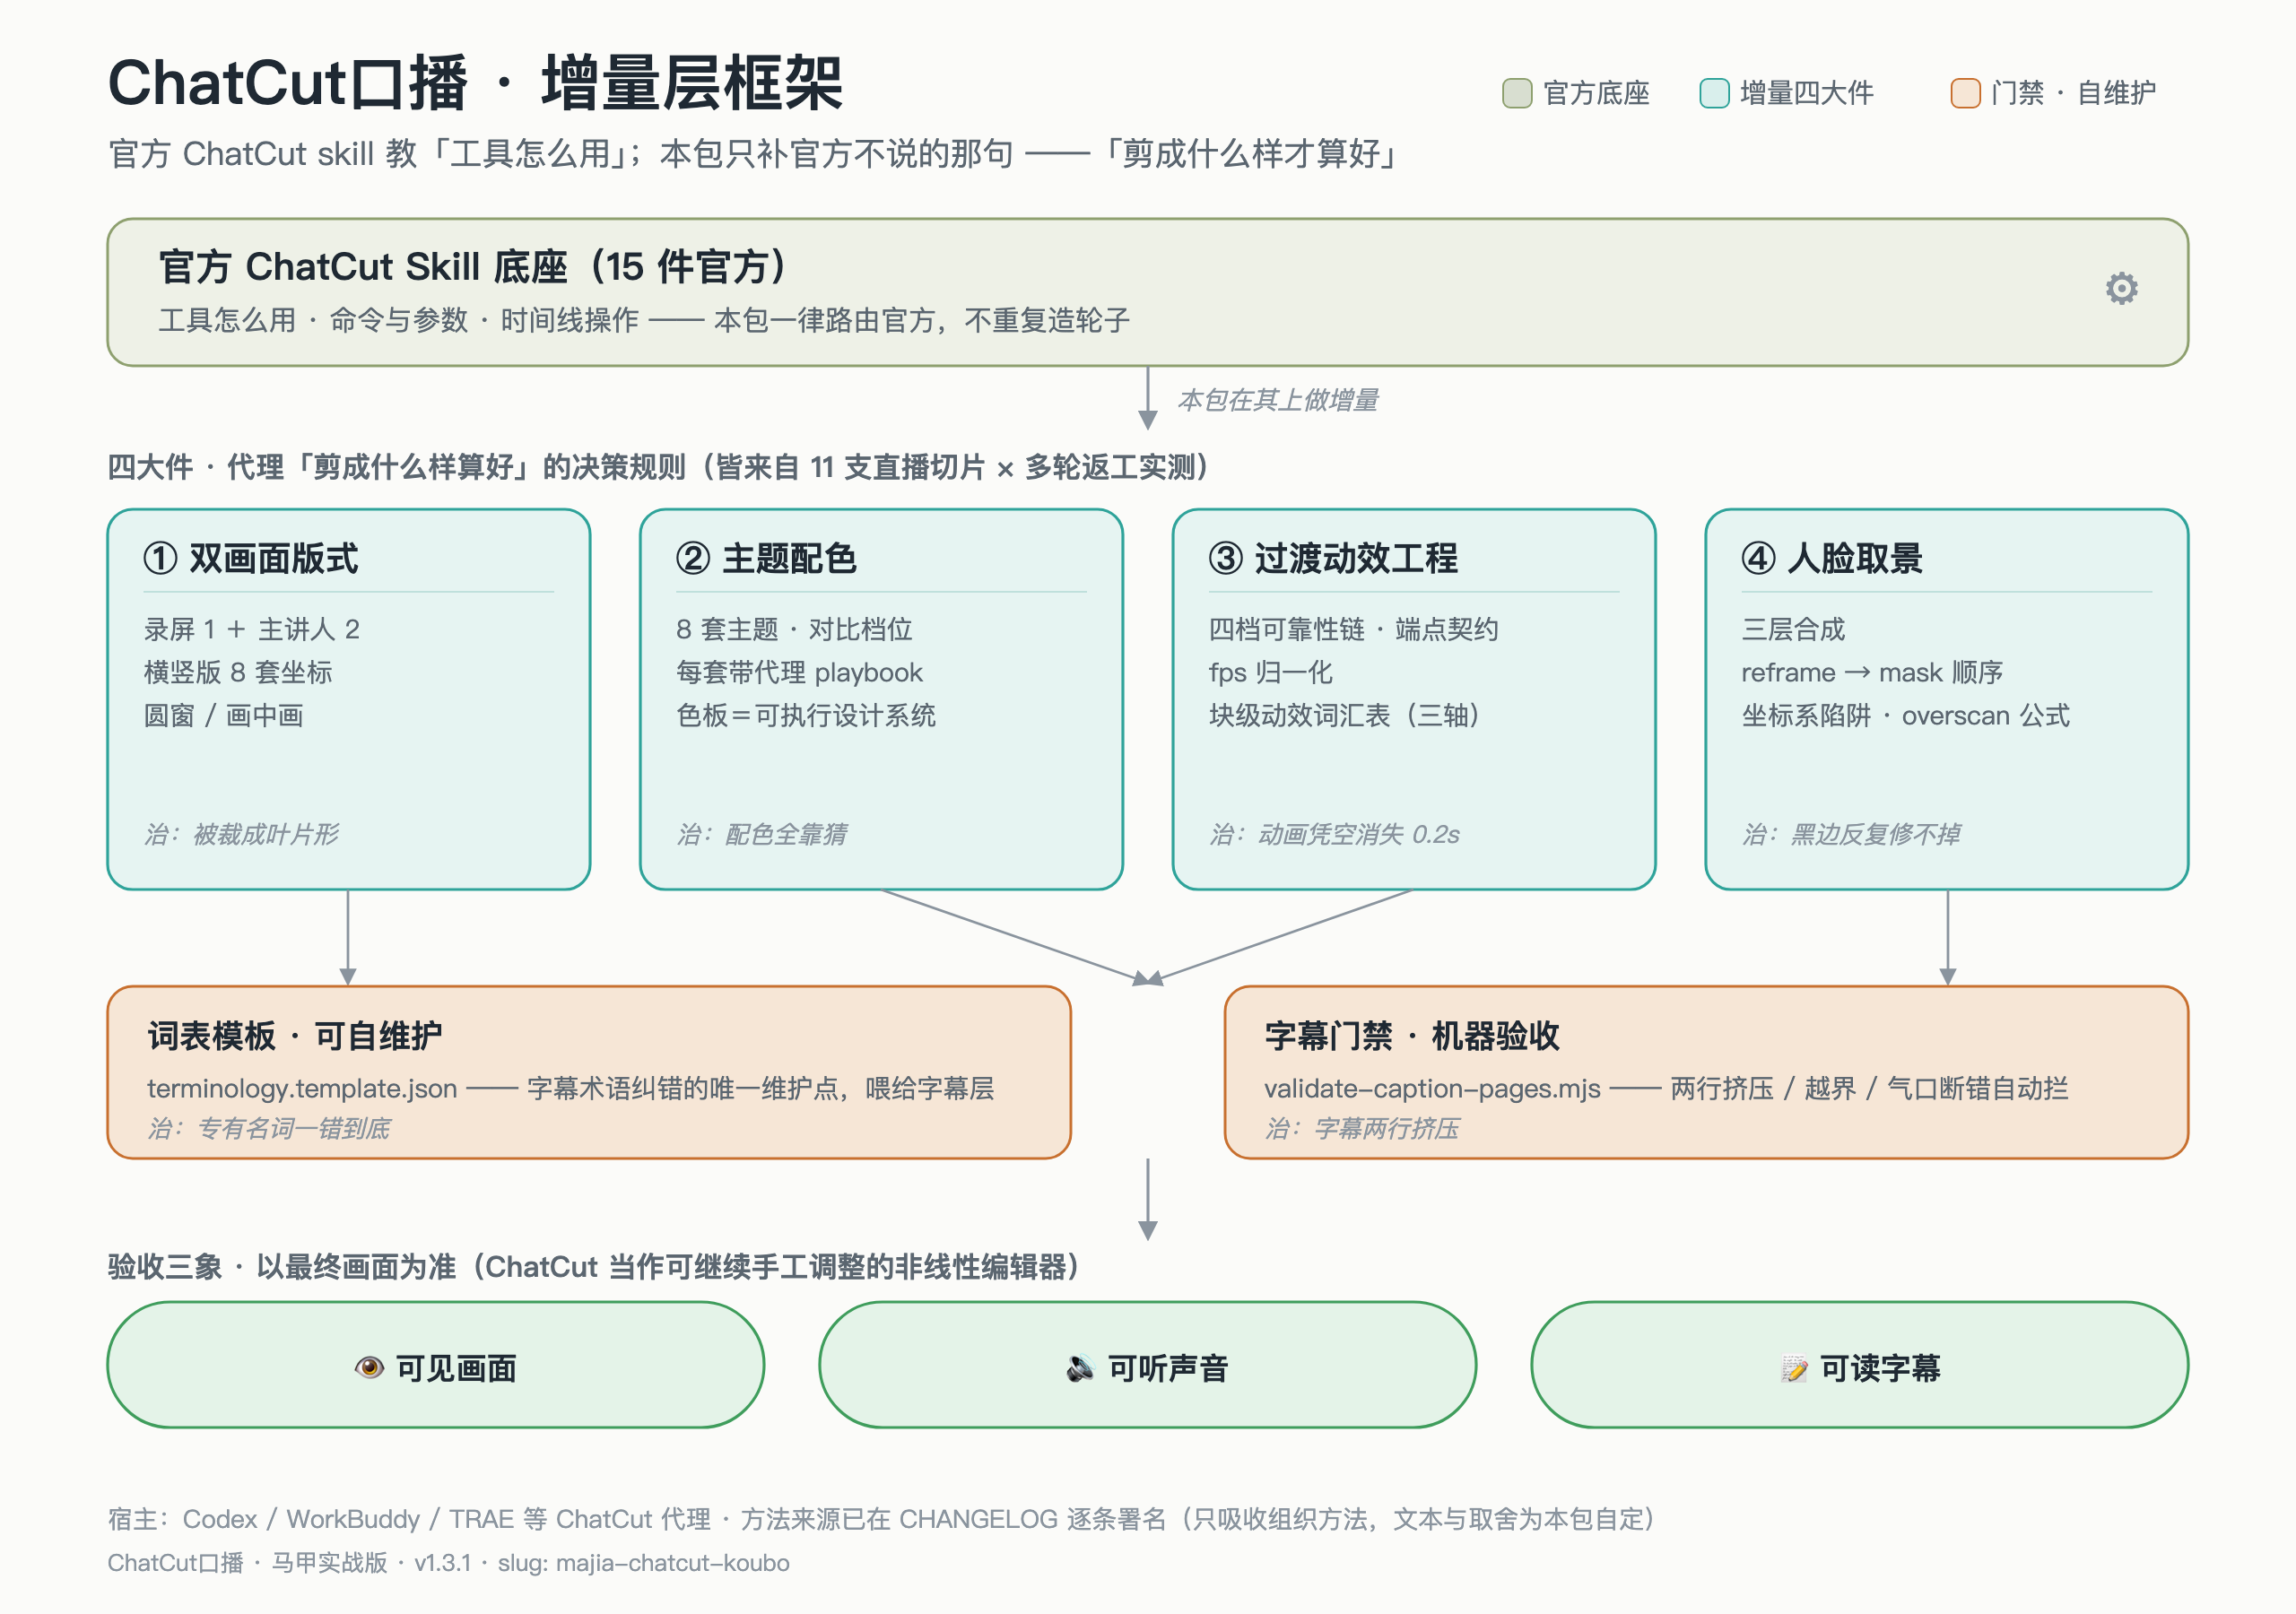
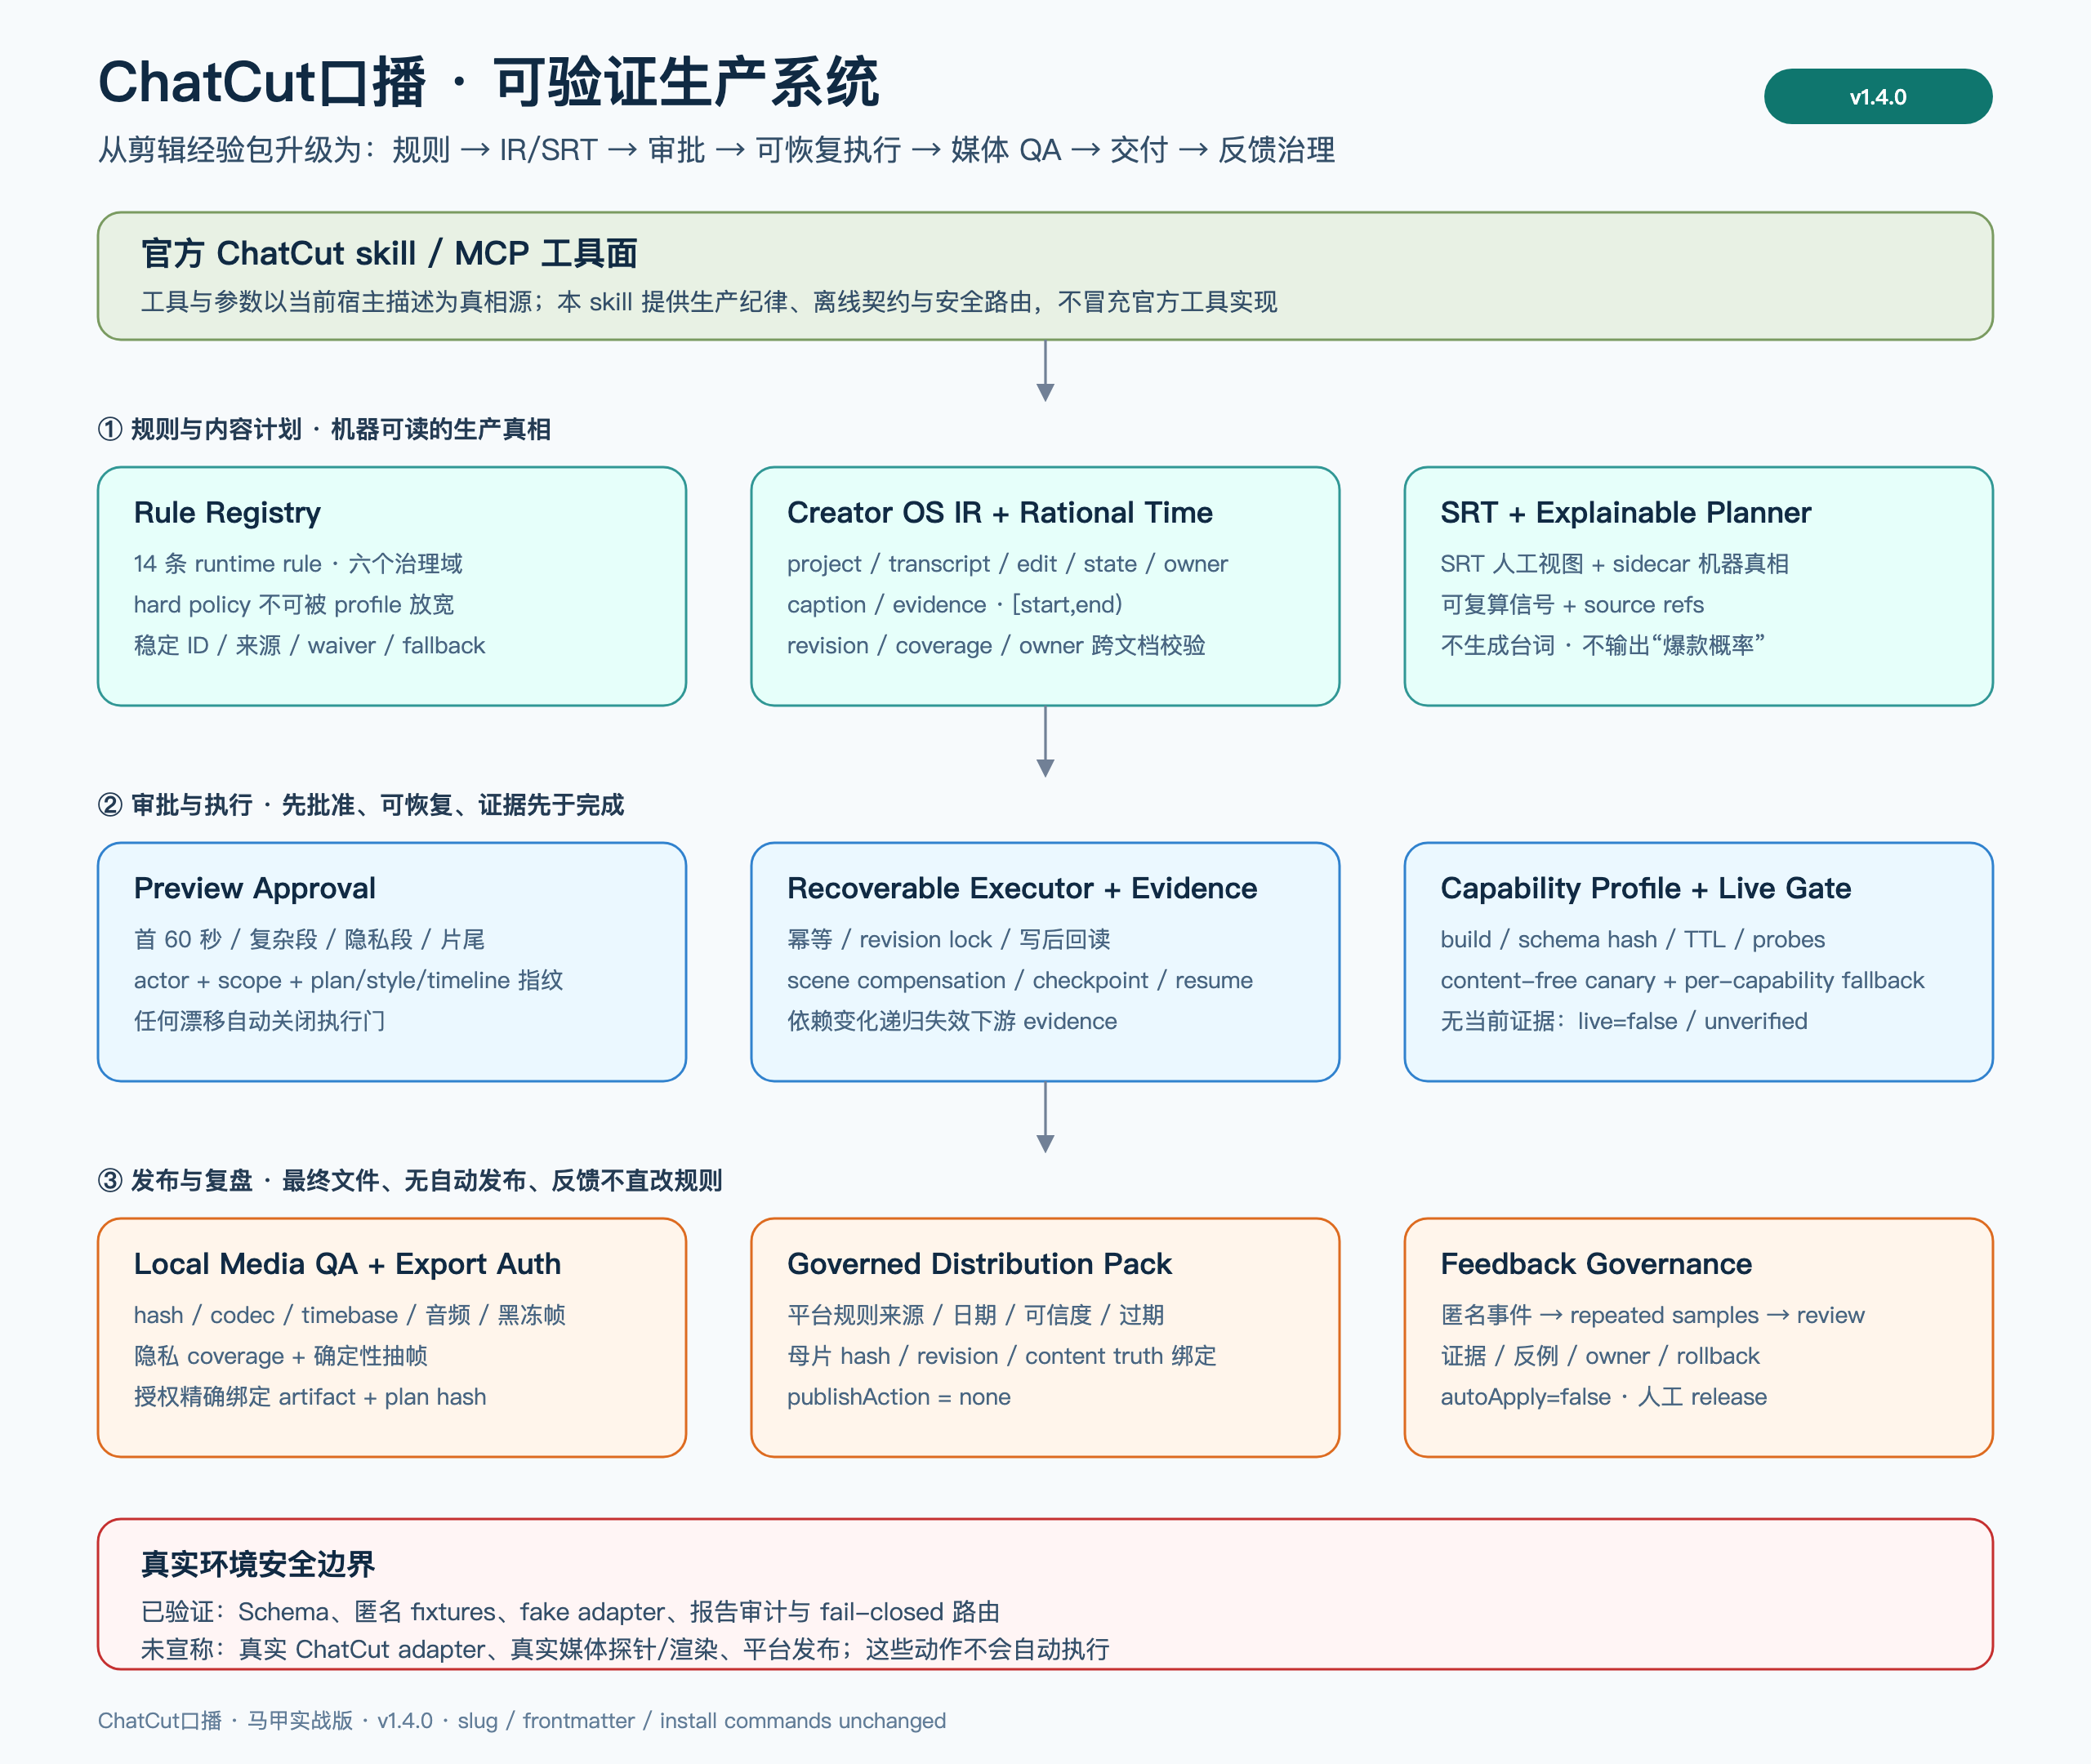
release: prepare v1.4.0 production system

diff --git a/README.md b/README.md
@@ -1,21 +1,21 @@
 # ChatCut口播 · 马甲实战版
 
-![Skill Version](https://img.shields.io/badge/skill-v1.3.1-blue)
+![Skill Version](https://img.shields.io/badge/skill-v1.4.0-blue)
 [![skills.sh](https://skills.sh/b/maojiebc/majia-chatcut-koubo)](https://skills.sh/maojiebc/majia-chatcut-koubo)
 
-> 安装标识（slug）仍为 `majia-chatcut-koubo`，安装命令与下方一致；「ChatCut口播 · 马甲实战版」是它的中文展示名。
+> **ChatCut口播 · 马甲实战版** — 安装标识（slug）仍为 `majia-chatcut-koubo`，安装命令保持不变。
 
-**ChatCut 口播剪辑通用技巧包 · 马甲实战版** —— 官方 ChatCut skill 之上的增量层:双画面版式、主题配色、过渡动效、人脸取景四大件,外加可自维护的词表模板与机器化字幕门禁。全部规则来自真实批量剪片(11 支直播切片 × 多轮返工)踩出来的实测结论,不是理论汇编。
+**从剪辑经验包升级为可验证生产系统** —— 在官方 ChatCut skill 之上，把版式/配色/动效/人脸取景与规则、IR/SRT、审批、可恢复执行、证据、媒体 QA、交付和反馈治理串成一条 fail-closed 生产链。
 
-<img src="https://raw.githubusercontent.com/maojiebc/majia-chatcut-koubo/main/docs/architecture.png" alt="v1.3.1 增量层框架图:官方 ChatCut 底座 → 双画面版式(七执行状态) / 主题配色 / 过渡动效工程(窗口 reframe shader) / 人脸取景 四大件 + ChatCut 宿主实测档案 + 八道硬闸 + 本地个人层 → 词表模板 + 字幕门禁 → 可见画面 / 可听声音 / 可读字幕 验收三象" width="100%">
+<img src="https://raw.githubusercontent.com/maojiebc/majia-chatcut-koubo/main/docs/architecture.png" alt="v1.4.0 可验证生产系统：Rule Registry → Creator OS IR/SRT → Explainable Planner → Preview Approval → Recoverable Executor/Evidence → Media QA → Distribution Pack → Feedback Governance，并由 Capability Profile 阻断无证据 live route" width="100%">
 
-<img src="https://raw.githubusercontent.com/maojiebc/majia-chatcut-koubo/main/docs/theme-preview.png" alt="v1.3.1 · 8 套口播主题配色总览(每套含代理 playbook):深空蓝/墨绿金/暖灰橙/午夜紫/极简黑白/海盐青/大地棕/活力青柠" width="100%">
+<img src="https://raw.githubusercontent.com/maojiebc/majia-chatcut-koubo/main/docs/theme-preview.png" alt="v1.4.0 · 8 套口播主题配色总览(每套含代理 playbook):深空蓝/墨绿金/暖灰橙/午夜紫/极简黑白/海盐青/大地棕/活力青柠" width="100%">
 
 ## 这个包解决什么
 
 用 AI 代理(Codex / WorkBuddy / TRAE 等 ChatCut 宿主)剪口播视频时,官方 skill 教了「工具怎么用」,但没人告诉代理「剪成什么样算好」。结果是:画中画被裁成叶片形、过渡生硬得像 PPT、字幕两行挤压、导出后动画凭空消失 0.2 秒、黑边反复修不掉。
 
-本包把这些坑的**根因和数学**写成代理可执行的规范:
+本包把这些坑的**根因和数学**写成代理可执行的规范，并把“做完”升级为可追溯的生产状态：
 
 - **双画面版式系统** — 横竖版 8 套具名版式带精确坐标(`assets/compositions.json`),七执行状态语义决策器 + 状态落地原子契约:什么时候人物全屏、什么时候圆窗、什么时候纯录屏,由证据决定不由时间轮播
 - **主题配色系统** — 8 套实测主题(token + SVG 底图 + 可运行 HTML 组件),**每套自带代理 playbook**:token 语义档位、信息块偏好、字幕底板硬规则、可直接嵌进生成指令的调用 crib
@@ -36,6 +36,8 @@
 - **ChatCut 宿主实测行为档案** — crop 语义、编辑器/云端渲染差异、MG 媒体槽失效与窗口 reframe shader 正解、字幕分页引擎机器路径、隐私扫描 SOP、双端预览路由
 - **留存结构 + 四平台路由** — 开头钩子决策流、钩子-兑现成对、注意力时钟、抖音/小红书/视频号/B站条件路由
 - **本地个人层** — `~/.config/majia-chatcut-koubo/` 叠加个人 profile/词表/审美基线;品牌词与实测数字留在本地,公开包保持通用
+
+> **真实环境边界**：当前仓库验证的是离线 Schema、匿名 fixtures、fake adapter、报告审计与 fail-closed 路由。真实 ChatCut adapter、真实媒体探针/渲染与平台发布尚未验证，也不会被自动执行。
 
 ## 安装
 
@@ -145,6 +147,9 @@ fixtures/preview/               匿名 preview bundle + approval log
 fixtures/execution/             匿名 execution plan
 fixtures/media-qa/              匿名 final artifact release report
 fixtures/distribution/          匿名平台 profile + deliverables pack
+fixtures/feedback/              匿名 privacy-safe event + suggested update queue
+fixtures/planning/              匿名 explainable content scorecard
+fixtures/capabilities/          明确 live=false/unverified 的 capability profile
 src/config/                     profile resolver、合并来源与安全序列化
 src/cli/resolve-profile.mjs     source → resolved CLI
 src/rules/                      Rule Registry 审计与 tighten-only override evaluator
@@ -152,6 +157,7 @@ src/time/                       有理时间、显式时间域与半开区间运
 src/planning/                   Creator OS bundle 跨文档 validator
                                  SRT export/parser/matcher/diff classifier
 src/execution/                  fake adapter、journal、reconcile、resume、evidence
+src/governance/                 feedback event 与建议发布治理
 src/qa/                         媒体 probe/audio/privacy/inspection/release audit
 src/distribution/               平台 profile freshness 与 master binding audit
 scripts/
@@ -161,8 +167,10 @@ scripts/
   srt-bridge.mjs                SRT/sidecar export 与候选 diff CLI
   validate-preview-approval.mjs 预览批准 scope/指纹/失效 gate
   validate-recovery-fixtures.mjs 可恢复执行故障注入 gate
+  validate-capability-profile.mjs build/schema/TTL/probe/canary live-route gate
   validate-media-release.mjs    最终媒体报告与导出授权 gate
   validate-distribution-pack.mjs 平台交付 manifest gate
+  validate-feedback-governance.mjs 匿名事件与人工 release queue gate
   validate-caption-pages.mjs    字幕页机械校验(profile 继承/结构化 JSON/--root/--strict/--terms)
   check-assets.mjs              composition/theme 引用与几何 gate
   check-version-drift.mjs       package/SKILL/README/CHANGELOG 漂移 gate
@@ -178,15 +186,13 @@ docs/
 
 ## 📋 版本记录
 
+**V1.4.0（2026-07-24）** — 从技巧包升级为可验证生产系统：Rule Registry、Creator OS IR/Rational Time、SRT/可解释规划、预览审批、可恢复执行与证据链、Media QA/导出授权、受治理交付包、反馈治理和 capability live gate 全部进入离线 release gates；真实 ChatCut adapter、真实媒体探针/渲染与平台发布继续保持 `unverified` 且不自动执行。
+
 **V1.3.1(2026-07-24)** — 契约止血与发布地基：Node/lockfile/CI 可复现安装；Ajv 离线验证全仓 JSON；source/resolved profile 契约、继承路径修复、合并来源追踪与安全 CLI；字幕数值语义、词 key/区间、短卡类型、override 上限、严格 warning 与项目/时间线 provenance 绑定；主题对比度、composition 几何、资产引用和文档/版本漂移全部进入 release gate。旧字幕 JSON 仍可非严格迁移，发布态须补齐 provenance。
 
 **V1.3.0(2026-07-24)** — 制度增量+ChatCut 实测档案+本地个人层:references 6→10 册(新增逐片执行手册/宿主实测行为档案/留存结构/故障恢复);SKILL 新增确认闸门(状态表先行硬闸/60 秒预览闸/精校稿真相源);机器门禁升级(不可放宽 `rules/policy.json`+schemas+validator 支持 profile 继承/毫秒短卡/`--terms` 个人词表+14 项回归测试);主题 token v1.1 对比度修正(海盐青正文 7.67:1 达标);本地个人层正式契约 `~/.config/majia-chatcut-koubo/` + `templates/local-config-example/` 四件套模板。
 
-**V1.2.3(2026-07-23)** — 依赖 CVE 修复:`assets/theme-kit/requirements.txt` 的 `CairoSVG>=2.7` 固定为 `==2.9.0`,消除 CVE-2026-31899(递归 `<use>` 指数级 DoS)暴露;SKILL description 补前置/非目标,收窄触发口径。
-
-**V1.2.2(2026-07-23)** — 中文品牌名:展示名定为「ChatCut口播 · 马甲实战版」,同步 SKILL/README/架构图/GitHub About/ClawHub;安装标识 `majia-chatcut-koubo`、frontmatter 与安装命令一律不变。
-
-完整变更历史见 [CHANGELOG.md](CHANGELOG.md)。
+完整变更历史见 [CHANGELOG.md](./CHANGELOG.md) 或 [GitHub Releases](https://github.com/maojiebc/majia-chatcut-koubo/releases)。
 
 ## 方法来源
 
@@ -194,9 +200,9 @@ docs/
 
 ## 👤 作者 / 联系
 
-**马甲(@maojiebc)** · 超级马甲
+**马甲（@maojiebc）** · 超级马甲
 
-如果这份 skill 帮到你,欢迎在以下任意渠道找我交流踩坑实录、提需求、报 bug,也欢迎勾兑用户运营 / 数据中台 / BI 工程的实战经验:
+如果这份 skill 帮到你，欢迎在以下任意渠道找我交流踩坑实录、提需求、报 bug，也欢迎勾兑用户运营 / 数据中台 / BI 工程的实战经验：
 
 | 渠道 | 链接 |
 |---|---|
@@ -207,4 +213,4 @@ docs/
 | 📕 小红书 | [超级马甲](https://xhslink.com/m/4fQMJeHHWKC) |
 | 📰 微信公众号 | [超级马甲](https://mp.weixin.qq.com/mp/profile_ext?action=home&__biz=MzY5NzIzODk2NA==#wechat_redirect) |
 
-> 这份 skill 是 14 年用户运营 + 内容矩阵实战沉淀出来的,问题/合作随时聊。
+> 这份 skill 是 14 年用户运营 + 内容矩阵实战沉淀出来的，问题/合作随时聊。

diff --git a/README.en.md b/README.en.md
@@ -1,14 +1,14 @@
 # majia-chatcut-koubo
 
-![Skill Version](https://img.shields.io/badge/skill-v1.3.1-blue)
+![Skill Version](https://img.shields.io/badge/skill-v1.4.0-blue)
 
-> Chinese display name: **ChatCut口播 · 马甲实战版**. Install slug stays `majia-chatcut-koubo`.
+> **ChatCut口播 · 马甲实战版** — the install slug stays `majia-chatcut-koubo`.
 
-**A field-tested technique pack for agent-driven talking-head editing in ChatCut · Majia Field Edition** — an increment layer on top of the official ChatCut skills. The official skills teach agents *how to use the tools*; this pack teaches them *what a good cut looks like*, with the math behind every hard-won lesson.
+**A verifiable production system for agent-driven talking-head editing** — an increment layer above the official ChatCut skills, joining visual craft with governed rules, IR/SRT planning, approval, recoverable execution, evidence, media QA, delivery, and feedback.
 
-<img src="https://raw.githubusercontent.com/maojiebc/majia-chatcut-koubo/main/docs/architecture.png" alt="v1.3.1 increment-layer architecture: official ChatCut base → four pieces (dual-frame layout / theme palette / transition engineering / face reframe) → terminology template + caption gate → visible frame / audible sound / readable captions acceptance triad" width="100%">
+<img src="https://raw.githubusercontent.com/maojiebc/majia-chatcut-koubo/main/docs/architecture.png" alt="v1.4.0 verifiable production system: Rule Registry → Creator OS IR/SRT → Explainable Planner → Preview Approval → Recoverable Executor/Evidence → Media QA → Distribution Pack → Feedback Governance, with Capability Profile blocking unproven live routes" width="100%">
 
-<img src="https://raw.githubusercontent.com/maojiebc/majia-chatcut-koubo/main/docs/theme-preview.png" alt="v1.3.1 · 8 talking-head color themes overview (each with an agent playbook)" width="100%">
+<img src="https://raw.githubusercontent.com/maojiebc/majia-chatcut-koubo/main/docs/theme-preview.png" alt="v1.4.0 · 8 talking-head color themes overview (each with an agent playbook)" width="100%">
 
 ## What's inside
 
@@ -27,6 +27,8 @@
 - **Local Media QA and export authorization** — audits final-file hashes, codecs/timebase/dimensions/color/audio/duration, loudness/true peak/silence, black/freeze findings, privacy coverage, and deterministic inspection samples from supplied reports; it never exports or publishes media.
 - **Distribution pack foundation** — platform rules carry source, observation, expiry, and confidence metadata; stale hard rules degrade to advisory, deliverables bind to master/revision/content-truth hashes, and publishing is forbidden.
 - **Feedback governance foundation** — events retain only anonymous hashes, stable failure signatures, and allowlisted metrics; update suggestions require repeated samples, evidence, counterexamples, an owner, human review, and rollback, with no online auto-apply route.
+
+> **Live-environment boundary:** the repository validates offline schemas, anonymous fixtures, a fake adapter, report audits, and fail-closed routing. A real ChatCut adapter, real media probing/rendering, and platform publishing remain unverified and are never run automatically.
 
 ## Install
 
@@ -80,19 +82,19 @@ The numbers in this pack (22 chars/line, 330px circle window, `magnification≈0
 
 ## 📋 Version History
 
+**V1.4.0 (2026-07-24)** — Upgraded from a technique pack to a verifiable production system: Rule Registry, Creator OS IR/Rational Time, SRT and explainable planning, preview approval, recoverable execution/evidence, Media QA/export authorization, governed distribution packs, feedback governance, and a capability live-route gate are now part of the offline release gates. Real ChatCut adaptation, media probing/rendering, and platform publishing remain explicitly unverified and non-automatic.
+
 **V1.3.1 (2026-07-24)** — Contract hotfix and reproducible release foundation: pinned Node and lockfile CI; offline repository-wide JSON validation; separate source/resolved profile contracts with safe inheritance, merge provenance and CLI output; caption numeric semantics, word identity/intervals, narrow short-card exception, hard override cap, strict warnings and project/timeline provenance binding; release gates for contrast, asset references/geometry and documentation/version drift. Legacy caption JSON remains available for non-strict migration, while release mode requires provenance.
 
 **V1.3.0 (2026-07-24)** — Process increments + ChatCut field notes + local personal layer: references 6→10 (new per-slice operating manual / host field-notes archive / retention structure / recovery); SKILL gains confirmation gates (state-table-first hard gate / 60-second preview gate / verbatim-transcript-as-truth); machine gate upgrade (non-weakenable `rules/policy.json` + schemas + validator with profile inheritance, millisecond short-card rules and a `--terms` personal-terminology flag + 14 regression tests); theme token v1.1 contrast fixes (sea-salt body text now 7.67:1); formal local personal layer contract at `~/.config/majia-chatcut-koubo/` with `templates/local-config-example/`.
 
-**V1.2.3 (2026-07-23)** — Dependency CVE fix: `assets/theme-kit/requirements.txt` pins `CairoSVG>=2.7` to `==2.9.0`, removing exposure to CVE-2026-31899 (exponential DoS via recursive SVG `<use>`); SKILL description gains preconditions / non-goals to tighten activation scope.
-
-**V1.2.2 (2026-07-23)** — Chinese brand name: display name set to **ChatCut口播 · 马甲实战版** across SKILL / README / architecture diagram / GitHub About / ClawHub. The install slug `majia-chatcut-koubo`, frontmatter, and install commands are unchanged.
-
-Full history: [CHANGELOG.md](CHANGELOG.md).
+Full history: [CHANGELOG.md](./CHANGELOG.md) or [GitHub Releases](https://github.com/maojiebc/majia-chatcut-koubo/releases).
 
 ## 👤 Author / Contact
 
-**Majia (@maojiebc)** · 超级马甲
+**Majia (@maojiebc)** · 超级马甲 (Super Majia)
+
+If this skill helps you, find me on any of these channels — happy to chat about field experience, take feature requests, hear bug reports, or trade notes on user operations / data platforms / BI engineering work:
 
 | Channel | Link |
 |---|---|
@@ -100,7 +102,7 @@ Full history: [CHANGELOG.md](CHANGELOG.md).
 | 🐙 GitHub | [github.com/maojiebc](https://github.com/maojiebc) |
 | 🪝 ClawHub | [clawhub.ai/p/maojiebc](https://clawhub.ai/p/maojiebc) |
 | 🐦 X | [@maojiebc](https://x.com/maojiebc) |
-| 📕 Xiaohongshu | [超级马甲](https://xhslink.com/m/4fQMJeHHWKC) |
-| 📰 WeChat | **超级马甲** |
+| 📕 Xiaohongshu | [Super Majia](https://xhslink.com/m/4fQMJeHHWKC) |
+| 📰 WeChat Official Account | [超级马甲](https://mp.weixin.qq.com/mp/profile_ext?action=home&__biz=MzY5NzIzODk2NA==#wechat_redirect) |
 
-> Distilled from 14 years of user-operations practice. Issues and collaboration welcome.
+> Built from 14 years of user-operations work and multi-channel content matrix experience.

diff --git a/SKILL.md b/SKILL.md
@@ -1,19 +1,28 @@
 ---
 name: majia-chatcut-koubo
-description: ChatCut 口播/录屏视频代理剪辑的通用技巧包——官方 ChatCut skill 之上的增量层。覆盖：双画面版式（横竖版 8 套坐标/七执行状态）、8 套主题配色与对比度档位、过渡动效工程（四档可靠性链/端点契约/fps 归一化）、人脸居中与内部取景（三层合成/reframe→mask 顺序/坐标系陷阱/overscan 公式）、中文气口字幕与可自维护词表模板、机器化字幕门禁（validator+不可放宽 policy）、逐片执行手册与八道硬闸、ChatCut 宿主实测行为档案、留存结构与四平台路由、故障恢复、本地个人层（~/.config 叠加个人 profile/词表）。触发：ChatCut 剪口播、直播切片、画中画/圆窗、主讲人过渡动画、竖版重构、字幕气口、术语纠错、主题配色。前置：需已装官方 ChatCut skill / MCP 工具。非目标：不处理非视频剪辑任务，不替代官方工具本身的用法（工具怎么用一律以官方为准），本包只补剪辑审美与实测护栏。
+description: ChatCut 口播/录屏视频代理剪辑的可验证生产系统——官方 ChatCut skill 之上的增量层。覆盖双画面版式、主题配色、过渡、人脸取景与字幕门禁，以及 Rule Registry、Creator OS IR/Rational Time、SRT 与可解释规划、预览审批、可恢复 fake adapter/证据链、本地 Media QA/导出授权、多平台交付包、反馈治理和 capability live gate。触发：ChatCut 剪口播、直播切片、竖版重构、字幕纠错、批量规划、预览审批、恢复执行、媒体 QA、交付审计。前置：需官方 ChatCut skill / MCP。边界：真实 ChatCut adapter、真实媒体探针/渲染与平台发布须另有当前环境证据，本 skill 不自动执行。
 metadata:
-  version: 1.3.1
+  version: 1.4.0
 ---
 
 # ChatCut口播 · 马甲实战版
 
-ChatCut 口播剪辑的通用技巧包。把 ChatCut 当作最终可继续手工调整的非线性编辑器：所有剪辑交付留在项目和时间线上，以可见画面、可听声音和可读字幕为验收对象。
+ChatCut 口播剪辑的可验证生产系统。它把 ChatCut 当作最终可继续手工调整的非线性编辑器，把规则、内容计划、审批、执行、证据、媒体 QA、交付和反馈放进同一条 fail-closed 流程。
 
 ## 与官方 skill 的分工
 
 ChatCut 插件自带官方 skill（plugin-basics / talking-head-guide / transcription / verification / known-errors / create-motion-graphics 等），**工具怎么用一律以官方为准**，参数以当前 MCP 工具实时描述为真相源。
 
-本包只写官方没有的：**剪成什么样算好**（版式、配色、动效节奏、构图标准）、**实测踩坑护栏**（坐标系陷阱、fps 错位、验证方法）、**可复用资产**（8 版式坐标、8 主题色板、字幕校验脚本、词表模板）。与官方重复处以官方为准。
+本包只写官方没有的：**剪成什么样算好**（版式、配色、动效节奏、构图标准）、**如何安全完成**（规则/IR、审批、幂等恢复、证据和发布授权）、**实测踩坑护栏**（坐标系陷阱、fps 错位、验证方法）与**可复用资产**。与官方重复处以官方为准。
+
+## 当前生产闭环
+
+1. **规则与计划**：Rule Registry 保护 hard policy；Creator OS IR、Rational Time、SRT sidecar 和 Explainable Planner 统一内容、时间、owner、revision 与证据引用。
+2. **审批与执行**：代表窗口 preview approval 精确绑定 scope/fingerprint；recoverable executor 用 fake adapter 验证幂等、写后回读、补偿、checkpoint/resume 和 evidence 失效传播。
+3. **QA 与交付**：Media QA 报告审计最终 artifact、音画/隐私和导出授权；distribution pack 绑定母片/content truth，`publishAction=none`。
+4. **反馈与真实环境**：反馈只进入受治理建议队列，不在线改 hard policy；capability profile 缺少当前 build/schema/probe/canary 时保持 `liveAllowed=false`。
+
+**当前边界**：离线 Schema、匿名 fixture、fake adapter 和报告审计已验证；真实 ChatCut adapter、真实媒体探针/渲染和平台发布仍需外部环境证据，本 skill 不会自动执行这些动作。
 
 ## 五条第一性原则
 
@@ -73,7 +82,13 @@ ChatCut 插件自带官方 skill（plugin-basics / talking-head-guide / transcri
 2. **起模**：把 `templates/local-config-example/` 整体复制为 `~/.config/majia-chatcut-koubo/`，在你的素材上做样片，把验证过的数字、品牌词表和审美偏好填进去。
 3. **边界**：品牌实词、真实业务数字、个人路径只进本地层，永不进 git、永不进公开仓；本地 profile 只能校准参数，不能放宽 `rules/policy.json` 的发布硬规则。数字变了就升版本存新文件，不覆盖旧版。
 
-版本记录见 [CHANGELOG.md](CHANGELOG.md)。
+## 📋 版本记录
+
+- **v1.4.0（2026-07-24）**：升级为可验证生产系统；交付 Rule Registry、Creator OS IR/Rational Time、SRT/可解释规划、预览审批、可恢复执行与证据、Media QA/导出授权、受治理交付包、反馈治理和 capability live gate；真实适配器/媒体探针/平台发布仍明确未验证且不自动执行。
+- **v1.3.1（2026-07-24）**：契约止血与可复现发布地基；Node/lockfile/CI、离线 JSON Schema、source/resolved profile、字幕 P0、资产/对比度/版本漂移门禁。
+- **v1.3.0（2026-07-24）**：逐片执行手册、ChatCut 宿主实测档案、八道硬闸、60 秒预览闸、留存结构与本地个人层。
+
+完整变更历史见 [CHANGELOG.md](./CHANGELOG.md) 或 [GitHub Releases](https://github.com/maojiebc/majia-chatcut-koubo/releases)。
 
 ## 👤 作者 / 联系
 

diff --git a/docs/roadmap.md b/docs/roadmap.md
@@ -1,6 +1,6 @@
 # majia-chatcut-koubo 公开工程路线图
 
-> 状态基线：V1.3.1
+> 状态基线：V1.4.0
 >
 > 更新日期：2026-07-24
 >
@@ -10,7 +10,7 @@
 
 ## 1. 当前判断
 
-V1.3.1 已经完成第一轮“契约止血”：仓库从主要依靠自然语言纪律，前进到拥有可复现安装、离线 Schema、严格字幕门禁、profile source/resolved 契约、资产检查、公开安全扫描、版本漂移检查和 GitHub Actions 的可信基线。
+V1.4.0 已完成从“契约止血”到可验证生产系统的第一轮闭环：仓库拥有可复现安装、Rule Registry、Creator OS IR/SRT、可解释规划、预览审批、可恢复 fake adapter/证据链、Media QA、受治理交付包、反馈治理、capability live gate、公开安全扫描和 GitHub Actions。
 
 下一阶段的目标不是继续堆 Markdown，而是把最有价值的生产纪律变成五类机器资产：
 

diff --git a/CHANGELOG.md b/CHANGELOG.md
@@ -2,6 +2,8 @@
 
 ## Unreleased
 
+## V1.4.0（2026-07-24）— 可验证生产系统
+
 **规划与治理**
 
 - 新增 [公开工程路线图](docs/roadmap.md)：以 V1.3.1 为已交付基线，明确 Rule Registry、Creator OS IR/SRT、预览审批、可恢复执行、证据链、媒体 QA、平台交付与反馈治理的顺序和 Definition of Done。